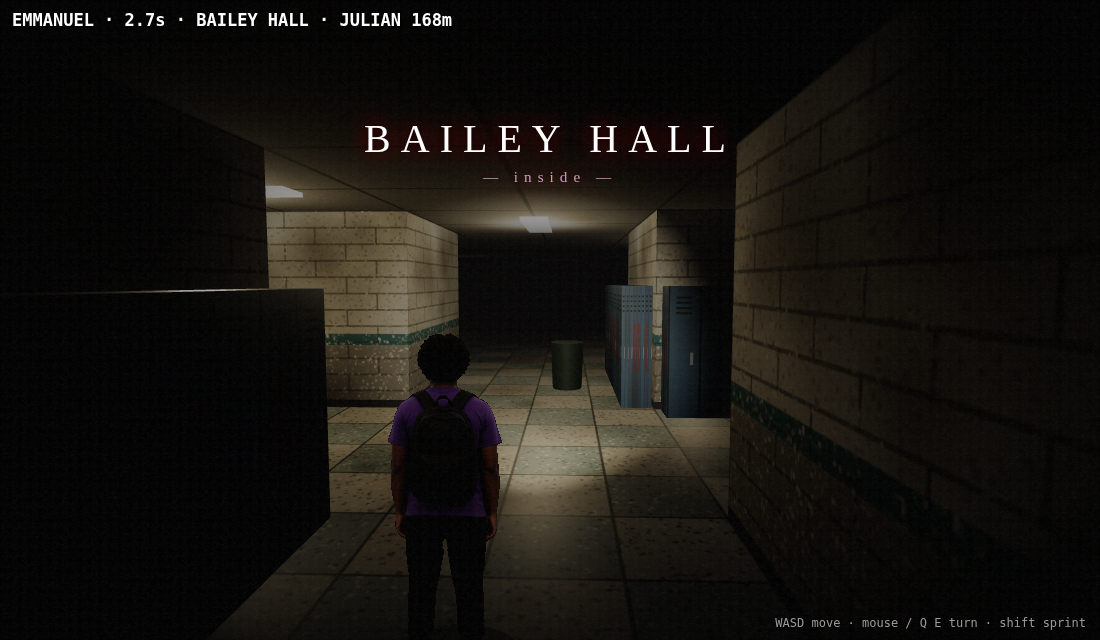
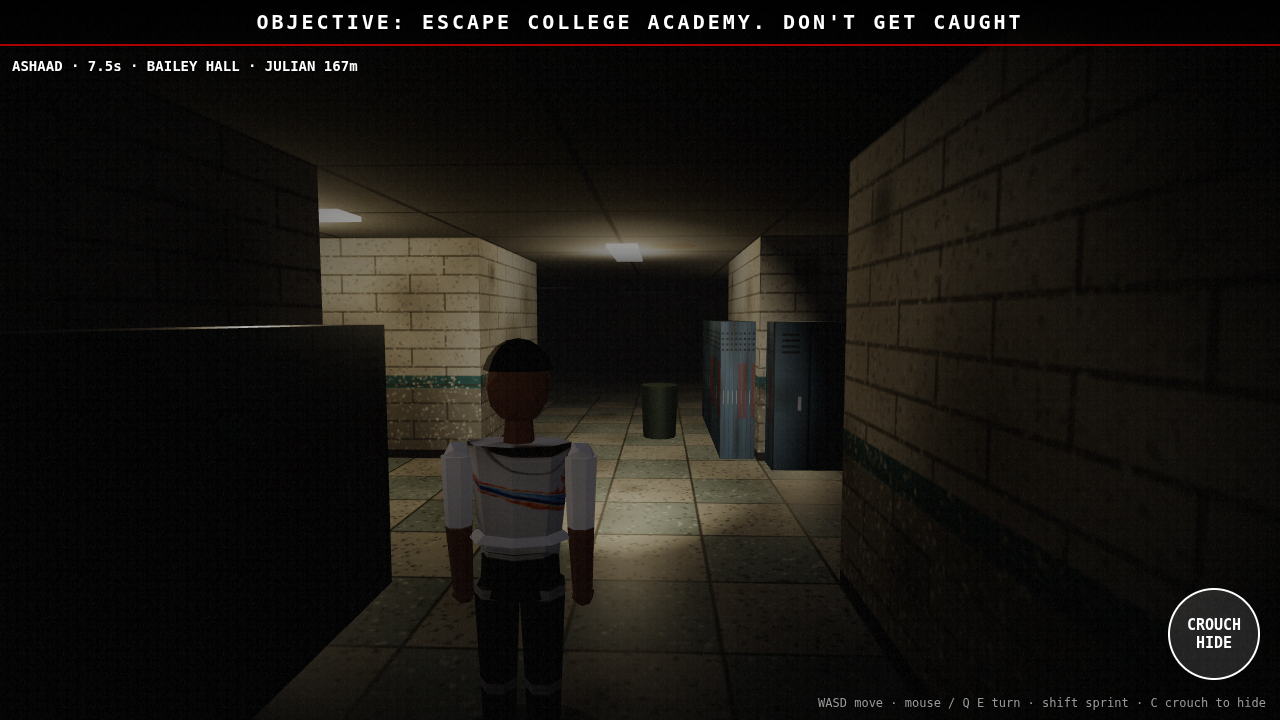
Faceted photo-textured characters, horror title, 3D car drop-off cutscene with click-to-pick, multi-beat jumpscares, cinematic GOTCHA

diff --git a/js/game.js b/js/game.js
@@ -15,19 +15,12 @@ function distantScream(){tone('sine',900+Math.random()*300,500,1.4,.03);tone('tr
 function startDrone(){if(!ac||drone)return;const o=ac.createOscillator(),o2=ac.createOscillator(),g=ac.createGain();o.frequency.value=41;o2.frequency.value=43.3;o.type=o2.type='sawtooth';g.gain.value=.035;const f=ac.createBiquadFilter();f.frequency.value=180;o.connect(f);o2.connect(f);f.connect(g).connect(ac.destination);o.start();o2.start();drone=g}
 // ---------- flow ----------
 let state='title';
-function toIntro(){audio();startDrone();state='intro';$('title').hidden=true;$('intro').hidden=false;
- const caps=['Bailey Hall. Central Campus.','11:47 PM.','they left us here.','the doors were already open.','something else stayed.'];let i=0;
- setTimeout(()=>$('van').classList.add('go'),900);tone('sawtooth',90,60,3,.06);
- const step=()=>{if(state!='intro')return;if(i>=caps.length)return toSelect();const c=$('cap');c.style.opacity=0;setTimeout(()=>{c.textContent=caps[i++];c.style.opacity=1;if(i==3||i==5)distantScream()},500);setTimeout(step,2600)};step()}
-function toSelect(){if(state=='select')return;state='select';$('intro').hidden=true;$('sel').hidden=false}
-addEventListener('mousemove',e=>$('cone').style.setProperty('--x',e.clientX/innerWidth*100+'%'));
-$('title').onclick=toIntro;$('intro').onclick=toSelect;
 const cards=document.querySelector('#sel .cards'),goB=document.querySelector('#sel .go');
 for(const k in CAST){const d=document.createElement('div');d.className='card';d.innerHTML=`<img src="${CAST[k].img}"><b>${CAST[k].n}</b><small>${CAST[k].fx}</small>`;
  d.onclick=()=>{who=k;cards.querySelectorAll('.card').forEach(c=>c.classList.toggle('on',c==d));goB.disabled=false;thump(80,.4)};cards.append(d)}
 goB.onclick=()=>who&&begin();
 addEventListener('keydown',e=>{const k=e.key.toLowerCase();keys[k]=1;
- if(k==' '){if(state=='title')toIntro();else if(state=='intro')toSelect();else if(state=='select'&&who)begin()}
+ if(k==' '){if(state=='title')toIntro();else if(state=='intro')CUT.t0=Math.min(CUT.t0,performance.now()-9300)}if(state=='pick'&&'123'.includes(k)&&k)pickRig(CUT.rigs[+k-1]);
  if(k=='r'&&state=='over')begin();if(k=='c'&&state=='play')P.crouch^=1;if((k==' '||k=='f')&&state=='qte')mash()});
 addEventListener('keyup',e=>keys[e.key.toLowerCase()]=0);
 // =====================================================================
@@ -273,18 +266,33 @@ const LOOKS={ashaad:{skin:'#7a5440',hair:'#1a120c',shirt:0xd2d1d6,pants:0x0e141d
  julian:{skin:'#b8a89c',hair:'#0c0808',shirt:0x18131a,pants:0x1e1918,shoe:0x080606,kind:'julian',h:1.22},
  verity:{skin:'#3f2d10',hair:'#2a1a06',shirt:0x463a1a,pants:0x2a2010,shoe:0x040301,kind:'verity',h:1.12}};
 const BX=(w,h,d,y=0)=>new THREE.BoxGeometry(w,h,d).translate(0,y,0);
-function rig(key,glow=0){const L=LOOKS[key],std=c=>new THREE.MeshStandardMaterial({color:c,roughness:.8,emissive:c,emissiveIntensity:glow});
- const skinM=std(new THREE.Color(L.skin).getHex()),shirtM=std(L.shirt),pantsM=std(L.pants),shoeM=std(L.shoe);
+const PHOTO={ashaad:['assets/ashaad-fullbody.jpg',[356,32,452,144],[280,192,540,520],[288,520,520,940]],
+ emmanuel:['assets/emmanuel-survivor.jpg',[328,48,424,168],[216,200,496,560],[232,600,520,960]],
+ landry:['assets/landry-fullbody.jpg',[264,40,360,160],[200,180,460,460],[240,460,448,960]],
+ julian:['assets/julian-horror.jpg',[216,88,328,232],[160,200,420,600],[120,600,420,1000]],
+ verity:['assets/verity-landry-evil.jpg',[160,32,304,208],[80,220,320,560],[40,560,340,1000]]};
+const PIMG={};const photoTex=(key,i)=>{const [src]=PHOTO[key],b=PHOTO[key][i],c=document.createElement('canvas');c.width=c.height=256;const t=new THREE.CanvasTexture(c);t.colorSpace=THREE.SRGBColorSpace;
+ const draw=im=>{const g=c.getContext('2d');g.drawImage(im,b[0],b[1],b[2]-b[0],b[3]-b[1],0,0,256,256);if(i==1){const r=g.createRadialGradient(128,128,90,128,128,140);r.addColorStop(0,'rgba(0,0,0,0)');r.addColorStop(1,'rgba(0,0,0,0)');}t.needsUpdate=true};
+ let im=PIMG[src];if(!im){im=PIMG[src]=new Image();im.src=src}if(im.complete&&im.naturalWidth)draw(im);else im.addEventListener('load',()=>draw(im));return t};
+const TAPER=(rt,rb,len,y,seg=7)=>new THREE.CylinderGeometry(rt,rb,len,seg,2).translate(0,y,0);
+function rig(key,glow=0){const L=LOOKS[key],std=(c,map)=>new THREE.MeshStandardMaterial({color:map?0xffffff:c,map:map||null,roughness:.8,flatShading:true,emissive:c,emissiveIntensity:glow*(map?.4:1),emissiveMap:map||null});
+ const skinM=std(new THREE.Color(L.skin).getHex()),shirtM=std(L.shirt,photoTex(key,2)),pantsM=std(L.pants,photoTex(key,3)),shoeM=std(L.shoe),sleeveM=std(L.shirt),hairM=std(new THREE.Color(L.hair).getHex());
  const root=new THREE.Group(),hips=new THREE.Group(),torso=new THREE.Group();root.add(hips);hips.position.y=.95;hips.add(torso);
- const add=(p,geo,m,x=0,y=0,z=0)=>{const o=new THREE.Mesh(geo,m);o.position.set(x,y,z);o.castShadow=false;p.add(o);return o};
- add(hips,BX(.36,.22,.22,0),pantsM);add(torso,BX(.42,.5,.24,.3),shirtM);add(torso,BX(.2,.1,.16,.6),skinM);
- const neck=new THREE.Group();neck.position.y=.62;torso.add(neck);
- const headM=[skinM,skinM,new THREE.MeshStandardMaterial({color:L.hair,roughness:.9}),skinM,new THREE.MeshStandardMaterial({map:faceTex(L.kind,L.skin,L.hair),roughness:.7,emissive:L.kind=='verity'?0xffd000:0,emissiveIntensity:L.kind=='verity'?.35:0}),skinM];
- if(L.kind!='verity')headM[1]=headM[0]=headM[3]=headM[5];
- const head=add(neck,BX(.28,.32,.28,.17),headM);if(!L.kind)add(neck,BX(.3,.09,.3,.36),headM[2]);if(L.kind=='verity'){add(neck,BX(.34,.26,.12,.12),shirtM,0,0,-.12)}
- const limb=(p,x,y,len,m1,m2,w=.12,end)=>{const a=new THREE.Group();a.position.set(x,y,0);p.add(a);add(a,BX(w,len/2,w,-len/4),m1);const b=new THREE.Group();b.position.y=-len/2;a.add(b);add(b,BX(w*.9,len/2,w*.9,-len/4),m2);if(end)add(b,end,shoeM,0,-len/2,.05);return[a,b]};
- const al=limb(torso,-.27,.52,.62,shirtM,skinM,.11),ar=limb(torso,.27,.52,.62,shirtM,skinM,.11);
- const ll=limb(hips,-.11,-.06,.86,pantsM,pantsM,.15,BX(.15,.08,.26)),lr=limb(hips,.11,-.06,.86,pantsM,pantsM,.15,BX(.15,.08,.26));
+ const add=(p,geo,m,x=0,y=0,z=0)=>{const o=new THREE.Mesh(geo,m);o.position.set(x,y,z);p.add(o);return o};
+ add(hips,TAPER(.17,.18,.2,0,8),pantsM).scale.z=.7;
+ const ch=add(torso,TAPER(.23,.17,.52,.3,8),shirtM);ch.scale.z=.62;add(torso,new THREE.SphereGeometry(.23,8,3,0,Math.PI*2,0,Math.PI/2).translate(0,.555,0),sleeveM).scale.set(1,.25,.62);
+ add(torso,TAPER(.06,.07,.12,.62,6),skinM);
+ const neck=new THREE.Group();neck.position.y=.66;torso.add(neck);
+ const hd=add(neck,new THREE.IcosahedronGeometry(.155,1),skinM,0,.15,0);hd.scale.set(.92,1.12,1);
+ const faceM=new THREE.MeshStandardMaterial({map:photoTex(key,1),roughness:.7,flatShading:true,emissive:0xffffff,emissiveMap:photoTex(key,1),emissiveIntensity:L.kind?.35:.18});
+ add(neck,new THREE.SphereGeometry(.152,10,7,0,Math.PI,Math.PI*.12,Math.PI*.72),faceM,0,.15,.012).scale.set(.95,1.15,1.04);
+ if(L.kind!='verity')add(neck,new THREE.SphereGeometry(.165,8,4,0,Math.PI*2,0,Math.PI*.42),hairM,0,.17,-.01).scale.set(.95,1.1,1.02);
+ const limb=(p,x,y,len,m1,m2,w=.12,end)=>{const a=new THREE.Group();a.position.set(x,y,0);p.add(a);add(a,TAPER(w*.62,w*.5,len/2,-len/4),m1);add(a,new THREE.IcosahedronGeometry(w*.55,0),m1);const b=new THREE.Group();b.position.y=-len/2;a.add(b);add(b,TAPER(w*.5,w*.38,len/2,-len/4),m2);if(end)add(b,end,shoeM,0,-len/2,.05);return[a,b]};
+ const hand=new THREE.IcosahedronGeometry(.055,0).translate(0,-.33,0);
+ const al=limb(torso,-.27,.5,.62,sleeveM,skinM,.12),ar=limb(torso,.27,.5,.62,sleeveM,skinM,.12);add(al[1],hand,skinM);add(ar[1],hand,skinM);
+ const shoe=new THREE.BoxGeometry(.13,.08,.27,1,1,2);
+ const ll=limb(hips,-.1,-.06,.86,pantsM,pantsM,.17,shoe),lr=limb(hips,.1,-.06,.86,pantsM,pantsM,.17,shoe);
+ root.traverse(o=>{if(o.isMesh)o.castShadow=false});
  root.scale.setScalar(L.h||1);root.userData={hips,torso,neck,al,ar,ll,lr,crouch:0,key,mats:[skinM,shirtM,pantsM,shoeM]};
  const sh=new THREE.Mesh(new THREE.CircleGeometry(.45,20).rotateX(-Math.PI/2),new THREE.MeshBasicMaterial({color:0,transparent:true,opacity:.55,depthWrite:false}));sh.position.y=.03;scene.add(sh);root.userData.shadow=sh;scene.add(root);return root}
 // style: 'run' | 'back' | 'idle' | 'strafe' | 'julian' | 'verity' | 'grab'
@@ -334,11 +342,12 @@ if(COARSE){$('touch').style.display='grid';$('touch').querySelectorAll('button')
  let lx=null;renderer.domElement.addEventListener('touchmove',e=>{const x=e.touches[0].clientX;if(lx!=null)P.yaw-=(x-lx)*.006;lx=x},{passive:true});renderer.domElement.addEventListener('touchend',()=>lx=null)}
 const cb=$('crouchB');cb.onclick=()=>{if(state=='play')P.crouch^=1};cb.ontouchstart=e=>{e.preventDefault();cb.onclick()};const qb=$('qkeyB');qb.onclick=e=>{e.stopPropagation();mash()};qb.ontouchstart=e=>{e.preventDefault();mash()};
 const SCARE={};[['j','assets/anims/julian-jumpscare.png','assets/julian-horror.jpg'],['v','assets/anims/verity-jumpscare.png','assets/verity-landry-evil.jpg']].forEach(([k,a,b])=>{SCARE[k]={u:b,sheet:false};const i=new Image();i.onload=()=>SCARE[k]={u:a,sheet:true};i.src=a});
-function jumpscare(k,now){const sc=SCARE[k],img=sc.u;$('js').classList.toggle('sheet',sc.sheet);lastScare=now/1000;frozenUntil=now+(RM?400:800);const j=$('js');j.style.backgroundImage=`url(${img})`;j.classList.remove('on');void j.offsetWidth;j.classList.add('on');
- scream(false);if(!RM)document.body.classList.add('shake');setTimeout(()=>{j.classList.remove('on');document.body.classList.remove('shake')},RM?400:780)}
+function jumpscare(k,now){const sc=SCARE[k],img=sc.u,D=RM?600:2400;$('js').classList.toggle('sheet',sc.sheet);lastScare=now/1000;frozenUntil=now+D;const j=$('js'),v=$('jsv');j.style.backgroundImage=`url(${img})`;[j,v].forEach(e=>{e.classList.remove('on');void e.offsetWidth;e.classList.add('on')});
+ tone('sine',60,30,.4,.25);noise(.12,.15);setTimeout(()=>{scream(true);thump(50,.6);if(!RM)document.body.classList.add('shake')},300);setTimeout(()=>{tone('square',2200,1800,.5,.06);noise(.5,.3)},1100);setTimeout(()=>{thump(40,.7);tone('sawtooth',110,40,1,.15)},1550);
+ setTimeout(()=>{[j,v].forEach(e=>e.classList.remove('on'));document.body.classList.remove('shake')},D)}
 function showZone(z,sub){const e=$('zone');e.innerHTML=`${z}<small>${sub}</small>`;e.style.opacity=1;clearTimeout(e._t);e._t=setTimeout(()=>e.style.opacity=0,2400)}
 function gotcha(now,by){state='over';scream(true);document.exitPointerLock?.();$('hud').hidden=true;$('crouchB').hidden=true;$('obj').textContent='';$('over').hidden=false;
- $('score').textContent=`${CAST[who].n} survived ${((now-t0)/1000).toFixed(1)}s`;$('overline').textContent=by=='v'?'verity was never landry.':'julian has finded '+CAST[who].n.toLowerCase()+'.';
+ $('score').textContent=`${CAST[who].n} survived ${((now-t0)/1000).toFixed(1)}s`;$('overline').textContent=by=='v'?'\u201cverity was never landry.\u201d':'\u201cjulian has finded '+CAST[who].n.toLowerCase()+'.\u201d';
  if(!RM){$('over').classList.add('strobe');document.body.classList.add('shake')}}
 // ambience: fluorescent hum indoors, crickets outdoors, footsteps
 let hum=null,crick=null;function startAmb(){if(!ac||hum)return;const o=ac.createOscillator(),g=ac.createGain();o.type='sawtooth';o.frequency.value=120;const f=ac.createBiquadFilter();f.type='bandpass';f.frequency.value=240;f.Q.value=6;g.gain.value=0;o.connect(f).connect(g).connect(ac.destination);o.start();hum=g;
@@ -391,7 +400,7 @@ function loop(now){requestAnimationFrame(loop);const dt=Math.min(.05,(now-last)/
  }
  // ---- environment blend indoor/outdoor ----
  const inside=IN[Math.round(P.z/S)]?.[Math.round(P.x/S)]?1:0;envK+=(inside-envK)*Math.min(1,dt*1.6);
- scene.fog.color.copy(FOG_OUT).lerp(FOG_IN,envK);scene.fog.density=.022+.056*envK;hemi.intensity=.22+.55*(1-envK);hemi.color.setHex(0x5a6a99);moonL.intensity=1.1*(1-envK)+.02;renderer.toneMappingExposure=1.15+.35*(1-envK);
+ scene.fog.color.copy(FOG_OUT).lerp(FOG_IN,envK);scene.fog.density=.022+.056*envK;hemi.intensity=.26+.8*(1-envK);hemi.color.setHex(0x5a6a99);moonL.intensity=1.5*(1-envK)+.02;renderer.toneMappingExposure=1.15+.5*(1-envK);
  if(hum)hum.gain.value=.018*envK;if(crick){crick.gain.value=.025*(1-envK);if(Math.random()<dt*1.5*(1-envK))chirp()}
  // ---- over-the-shoulder camera ----
  let dy=P.yaw-camYaw;dy=Math.atan2(Math.sin(dy),Math.cos(dy));camYaw+=dy*Math.min(1,dt*14);
@@ -412,8 +421,51 @@ function loop(now){requestAnimationFrame(loop);const dt=Math.min(.05,(now-last)/
  if(V.on){ver.position.set(V.x,0,V.z);animActor(ver,V,dt,V.moved||0,'verity',tt)}
  renderer.render(scene,cam)}
 requestAnimationFrame(loop);
+// ---------- 3D intro cutscene: car drop-off at Bailey Hall, click a survivor ----------
+const CUT={on:false,t:0,rigs:[],car:null,hover:null,picked:null,lights:[]};
+const cutLamp=new THREE.PointLight(0xffb060,0,26,1.6);cutLamp.position.set(6*S,6,13.6*S);const cutFill=new THREE.PointLight(0x8090ff,0,40,1.2);cutFill.position.set(6*S,4,17*S);const cutRed=new THREE.PointLight(0xff1020,0,14,2);scene.add(cutLamp,cutFill,cutRed);
+function makeCar(){const g=new THREE.Group(),bm=new THREE.MeshStandardMaterial({color:0x15171c,roughness:.3,metalness:.7,flatShading:true}),gl=new THREE.MeshStandardMaterial({color:0x0a0d12,roughness:.1,metalness:.9});
+ const b=new THREE.Mesh(new THREE.BoxGeometry(4.4,.8,1.9),bm);b.position.y=.7;g.add(b);const c=new THREE.Mesh(new THREE.CylinderGeometry(.9,1.25,.7,4,1).rotateY(Math.PI/4).scale(1.6,1,1.05),gl);c.position.set(-.2,1.45,0);g.add(c);
+ const wg=new THREE.CylinderGeometry(.36,.36,.25,10).rotateX(Math.PI/2),wm=new THREE.MeshStandardMaterial({color:0x050505,flatShading:true});for(const[x,z]of[[1.4,.9],[-1.4,.9],[1.4,-.9],[-1.4,-.9]]){const w=new THREE.Mesh(wg,wm);w.position.set(x,.36,z);g.add(w)}
+ const hl=new THREE.MeshBasicMaterial({color:0xfff2cc}),tl=new THREE.MeshBasicMaterial({color:0xff1010});for(const z of[.65,-.65]){const h=new THREE.Mesh(new THREE.BoxGeometry(.05,.16,.32),hl);h.position.set(2.21,.85,z);g.add(h);const t=new THREE.Mesh(new THREE.BoxGeometry(.05,.14,.3),tl);t.position.set(-2.21,.85,z);g.add(t)}
+ const beam=new THREE.SpotLight(0xfff0d0,80,40,.5,.6,1.4);beam.position.set(2.3,.9,0);beam.target.position.set(12,0,0);g.add(beam,beam.target);const rl=new THREE.PointLight(0xff0000,4,6,2);rl.position.set(-2.6,.9,0);g.add(rl);scene.add(g);return g}
+const label=document.createElement('div');label.id='plabel';document.body.append(label);
+const caps=$('cap');
+function cap(s){caps.style.opacity=0;setTimeout(()=>{caps.textContent=s;caps.style.opacity=s?1:0},300)}
+function toIntro(){if(state!='title')return;audio();startDrone();state='intro';$('title').hidden=true;$('intro').hidden=false;document.body.classList.add('cine');
+ CUT.on=true;CUT.t=0;CUT.t0=performance.now();CUT.picked=null;CUT.car=CUT.car||makeCar();CUT.car.visible=true;CUT.rigs.forEach(r=>{scene.remove(r,r.userData.shadow)});
+ CUT.rigs=['ashaad','emmanuel','landry'].map((k,i)=>{const r=rig(k,.05);r.visible=r.userData.shadow.visible=false;r.userData.slot=(i-1)*1.5;return r});
+ tone('sawtooth',90,60,3,.06);cap('BAILEY HALL  ·  11:47 PM');
+ let last=performance.now();(function tick(now){if(!CUT.on)return;requestAnimationFrame(tick);const dt=Math.min(.25,(now-last)/1000);last=now;cutStep(dt,now/1000)})(last)}
+function cutStep(dt,tt){CUT.t=(performance.now()-CUT.t0)/1000;const t=CUT.t,car=CUT.car,X=6*S,Z=12.95*S;cutLamp.intensity=26*(Math.random()<.03?.3:1);cutFill.intensity=8;
+ // car: drive in, stop, idle, drive off
+ const CX=X+7,cx=t<3.2?CX-46+46*(1-Math.pow(1-t/3.2,3)):t<7?CX:CX+(t-7)**2*6;car.position.set(cx,0,14.2*S);car.visible=t<11;
+ if(t>1&&t<1.1)tone('sine',50,40,2.5,.08);if(t>7&&t<7.05){tone('sawtooth',70,140,1.4,.05);cap('they left us here.')}
+ // exit + walk to marks
+ CUT.rigs.forEach((r,i)=>{const go=3.6+i*.55;r.visible=r.userData.shadow.visible=t>go;if(!r.visible)return;const k=Math.min(1,(t-go)/1.6),sx=CX-1.2+i*.9,sz=14.2*S-1.2,tx=X+r.userData.slot,tz=Z+.6;
+  r.position.set(sx+(tx-sx)*k,0,sz+(tz-sz)*k);r.userData.shadow.position.set(r.position.x,.03,r.position.z);
+  r.rotation.y=k<1?Math.atan2(tx-sx,tz-sz):(CUT.picked==r?0:Math.sin(tt*.6+i)*.15);pose(r,tt*7,k<1?1:0,k<1?'run':'idle',0,dt,tt);
+  const hv=CUT.hover==r||CUT.picked==r;r.userData.mats.forEach(m=>m.emissiveIntensity+=((hv?.35:.05)-m.emissiveIntensity)*.15)});
+ if(t>9.4&&state=='intro'){state='pick';cap('');$('pickhint').hidden=false}
+ // camera: low tracking shot then settle on the three
+ let cp,lk;if(CUT.picked){const p=CUT.picked.position,k=Math.min(1,(t-CUT.pt)/1.4);cp=new THREE.Vector3(X,2.2-.6*k,Z+7-5.4*k);cp.x+=(p.x-X)*k;lk=new THREE.Vector3(p.x,1.5,p.z);cutRed.position.set(p.x,2.5,p.z+1.5);cutRed.intensity=k*14}
+ else if(t<3.4){cp=new THREE.Vector3(cx-6,1.1,14.2*S+4.5);lk=new THREE.Vector3(cx+3,.8,14.2*S)}else if(t<7){const k=(t-3.4)/3.6;cp=new THREE.Vector3(X-2+2*k,1.6+k*.5,Z+4.2+k*1.2);lk=new THREE.Vector3(X+3.5-3.5*k,1.2,Z+2)}else{const k=Math.min(1,(t-7)/2.2);cp=new THREE.Vector3(X+Math.sin(tt*.3)*.4,1.9+.2*k,Z+5.4-1*k);lk=new THREE.Vector3(X,1.25,Z+.4)}
+ cam.position.lerp(cp,CUT.picked?1:Math.min(1,dt*3.5));cam.lookAt(lk);
+ if(CUT.hover&&!CUT.picked){const v=CUT.hover.position.clone();v.y=2.25;v.project(cam);label.style.left=(v.x+1)/2*innerWidth+'px';label.style.top=(1-v.y)/2*innerHeight+'px';label.style.opacity=1;label.innerHTML=`${CAST[CUT.hover.userData.key].n}<small>${CAST[CUT.hover.userData.key].fx}</small>`}else label.style.opacity=0;
+ if(CUT.picked&&t-CUT.pt>1.9)endCut()}
+function endCut(){CUT.on=false;CUT.car.visible=false;CUT.rigs.forEach(r=>{scene.remove(r,r.userData.shadow)});CUT.rigs=[];cutLamp.intensity=cutFill.intensity=cutRed.intensity=0;label.style.opacity=0;$('pickhint').hidden=true;document.body.classList.remove('cine');begin()}
+function pickRig(r){if(state!='pick'||!r)return;CUT.picked=r;CUT.pt=CUT.t;who=r.userData.key;thump(70,.5);tone('sawtooth',300,60,1.2,.12);cap(CAST[who].n);label.style.opacity=0}
+const ray=new THREE.Raycaster(),mv=new THREE.Vector2();
+function rigAt(e){mv.set(e.clientX/innerWidth*2-1,-(e.clientY/innerHeight)*2+1);ray.setFromCamera(mv,cam);let best=null,bd=1e9;for(const r of CUT.rigs){const h=ray.intersectObject(r,true)[0];if(h&&h.distance<bd){bd=h.distance;best=r}}
+ if(!best)for(const r of CUT.rigs){const v=r.position.clone();v.y=1;v.project(cam);const d=Math.hypot((v.x-mv.x)*innerWidth,(v.y-mv.y)*innerHeight);if(d<90&&d<bd){bd=d;best=r}}return best}
+addEventListener('pointermove',e=>{if(state=='pick'&&!CUT.picked){CUT.hover=rigAt(e);document.body.style.cursor=CUT.hover?'pointer':''}});
+$('intro').onclick=e=>{if(state=='intro'){CUT.t0=Math.min(CUT.t0,performance.now()-9300)}else if(state=='pick')pickRig(rigAt(e))};
+$('title').onclick=toIntro;
+function toSelect(){}
+
 // idle backdrop for menus: slow orbit over Bailey Hall front
-(function menuCam(){if(state=='play'||state=='over')return;const t=performance.now()/9000;cam.position.set(7*S+Math.sin(t)*14,4,15*S+Math.cos(t)*4);cam.lookAt(7*S,3,11*S);P.x=7*S;P.z=14*S;requestAnimationFrame(menuCam)})();
+(function menuCam(){if(state=='play'||state=='over')return;if(CUT.on){requestAnimationFrame(menuCam);return}cutLamp.intensity=30;cutFill.intensity=10;hemi.intensity=.7;moonL.intensity=1.4;renderer.toneMappingExposure=1.5;const t=performance.now()/9000;cam.position.set(7*S+Math.sin(t)*14,4,15*S+Math.cos(t)*4);cam.lookAt(7*S,3,11*S);P.x=7*S;P.z=14*S;requestAnimationFrame(menuCam)})();
 addEventListener('resize',()=>{cam.aspect=innerWidth/innerHeight;cam.updateProjectionMatrix();renderer.setSize(innerWidth,innerHeight)});
+
 // debug hook for automated screenshots
-window.__boa={mash,qteS:()=>qte,startQTE,R:{jul,ver},P,J,V,G,cam,camPos,walk,DFc:()=>DF,W,H,begin:k=>{who=k||'ashaad';begin()},keys};
+window.__boa={mash,qteS:()=>qte,startQTE,R:{jul,ver},P,J,V,G,cam,camPos,walk,DFc:()=>DF,W,H,begin:k=>{who=k||'ashaad';begin()},CUT,toIntro,pickRig,jumpscare:k=>jumpscare(k,performance.now()),gotcha:b=>gotcha(performance.now(),b),keys};

diff --git a/index.html b/index.html
@@ -43,7 +43,7 @@ button.go{font:bold 18px monospace;letter-spacing:4px;padding:12px 30px;backgrou
 #js.sheet{inset:0 auto 0 calc(50% - 33vh);width:66vh;box-shadow:0 0 0 100vw #000;background-size:500% 100%;background-position:0 0}#js.sheet.on{animation:jz .75s steps(10) forwards,jf .75s step-end forwards}
 @keyframes jf{0%{background-position:0 0}18%{background-position:25% 0}36%{background-position:50% 0}54%{background-position:75% 0}70%,100%{background-position:100% 0}}
 @keyframes jz{0%{transform:scale(.6);filter:brightness(3) contrast(2) saturate(0)}10%{transform:scale(1.25) translate(12px,-8px);filter:brightness(1.4) contrast(1.8) hue-rotate(-20deg)}20%{transform:scale(1.15) translate(-14px,10px);filter:invert(1)}30%{transform:scale(1.3) translate(8px,6px);filter:contrast(2) saturate(3)}50%{transform:scale(1.4) translate(-6px,-12px)}70%{transform:scale(1.5);filter:brightness(.6) sepia(1) hue-rotate(-50deg) saturate(5)}100%{transform:scale(1.7);filter:brightness(0)}}
-#over{background:#000}#over h1{color:#f11;font-size:clamp(56px,14vw,170px);letter-spacing:12px}
+
 #over.strobe{animation:st .12s 18}@keyframes st{50%{background:#900}}
 #touch{position:fixed;bottom:20px;left:20px;z-index:9;display:none;grid-template-columns:repeat(3,60px);gap:6px}
 #touch button{height:60px;font-size:22px;background:rgba(255,255,255,.15);color:#fff;border:2px solid #fff;border-radius:8px}
@@ -57,12 +57,34 @@ button.go{font:bold 18px monospace;letter-spacing:4px;padding:12px 30px;backgrou
 #qte h2{font:bold clamp(28px,6vw,64px) Georgia;color:#f22;letter-spacing:6px;margin:0;text-shadow:0 0 18px #000}
 #qkeyB{margin:22px;font:bold 34px monospace;padding:22px 40px;background:#fff;color:#000;border:4px solid #f22;border-radius:12px;cursor:pointer;animation:qk .15s infinite alternate}@keyframes qk{to{transform:scale(1.1)}}
 .qbar{width:min(420px,80vw);height:16px;border:2px solid #fff;margin:6px}.qbar i{display:block;height:100%;background:#fff;width:0}#qtime{background:#f22!important}
+
+#title{background:transparent;cursor:pointer}#title .tbg{position:absolute;inset:0;background:radial-gradient(ellipse at 50% 60%,rgba(40,0,10,.15),rgba(0,0,0,.85) 75%),linear-gradient(transparent 55%,#000)}
+#title .fog{position:absolute;inset:-20%;background:radial-gradient(ellipse at 30% 80%,rgba(120,120,160,.12),transparent 50%),radial-gradient(ellipse at 70% 85%,rgba(150,60,80,.1),transparent 45%);animation:fogm 18s ease-in-out infinite alternate}@keyframes fogm{to{transform:translateX(8%)}}
+#title>*:not(.tbg):not(.fog){position:relative}#title .pre{font:bold clamp(12px,1.6vw,16px) monospace;letter-spacing:14px;color:#c22;margin-bottom:8px}
+#title h1.tt{font-family:'Impact','Haettenschweiler',Georgia,sans-serif;font-size:clamp(44px,10vw,128px);line-height:.88;letter-spacing:4px;color:#e8e2dc;text-shadow:0 0 30px #900,0 6px 0 #300,0 0 2px #f00;transform:skewX(-4deg)}
+#title .rule{width:min(420px,60vw);height:2px;margin:22px auto 18px;background:linear-gradient(90deg,transparent,#c00,transparent)}.blink{animation:bl 1.6s infinite;letter-spacing:8px}@keyframes bl{50%{opacity:.25}}
+#intro{background:transparent}#intro .bar{position:absolute;left:0;right:0;height:11vh;background:#000}#intro .bar.t{top:0}#intro .bar.b{bottom:0}#intro .skip{position:absolute;top:12vh;right:14px}
+#cap{position:absolute;bottom:13vh;width:100%;font:clamp(16px,2.6vw,28px) Georgia;letter-spacing:6px;text-shadow:0 0 8px #000;opacity:0;transition:opacity .6s}
+#pickhint{position:absolute;bottom:2.5vh;width:100%;font:bold clamp(16px,2.6vw,26px) monospace;letter-spacing:10px;color:#e33;text-shadow:0 0 12px #600}#pickhint small{display:block;font-size:.5em;color:#aaa;letter-spacing:4px;margin-top:4px}
+#plabel{position:fixed;z-index:12;transform:translate(-50%,-100%);font:bold 22px Georgia;letter-spacing:5px;color:#fff;text-shadow:0 0 10px #c00;pointer-events:none;opacity:0;transition:opacity .2s;text-align:center}#plabel small{display:block;font:12px monospace;color:#ccc;letter-spacing:1px}
+#js.on{animation:jz 2.4s linear forwards}#js.sheet.on{animation:jz 2.4s linear forwards,jf 2.4s step-end forwards}
+@keyframes jf{0%{background-position:0 0}12%{background-position:25% 0}30%{background-position:50% 0}50%{background-position:75% 0}70%,100%{background-position:100% 0}}
+@keyframes jz{0%{transform:scale(.2);opacity:0;filter:brightness(0)}6%{opacity:1;filter:brightness(.3) contrast(2)}9%{opacity:0}13%{opacity:1;transform:scale(.55);filter:brightness(.8) contrast(1.6) saturate(0)}18%{transform:scale(1.35) translate(14px,-10px);filter:brightness(1.6) contrast(2) hue-rotate(-20deg)}22%{transform:scale(1.2) translate(-16px,12px);filter:invert(1)}25%{transform:scale(1.4) translate(10px,6px);filter:contrast(2.2) saturate(2.5)}35%{transform:scale(1.45) translate(-5px,-6px);filter:contrast(1.8) saturate(1.6)}45%{transform:scale(1.5) translate(6px,4px)}52%{transform:scale(1.48) translate(-7px,3px);filter:brightness(1.3) contrast(2)}60%{transform:scale(1.6);filter:sepia(1) hue-rotate(-50deg) saturate(6) contrast(1.6)}66%{filter:invert(1) brightness(1.5)}70%{transform:scale(1.75);filter:brightness(.9) sepia(1) hue-rotate(-50deg) saturate(5)}85%{transform:scale(1.9);filter:brightness(.4) sepia(1) hue-rotate(-50deg) saturate(5)}100%{transform:scale(2);opacity:0;filter:brightness(0)}}
+#jsv{position:fixed;inset:0;z-index:21;pointer-events:none;opacity:0;background:radial-gradient(ellipse at center,transparent 25%,rgba(90,0,0,.7) 65%,#000 95%)}#jsv.on{animation:jv 2.4s forwards}@keyframes jv{0%,12%{opacity:0}16%{opacity:1}30%{opacity:.6}40%{opacity:1}55%{opacity:.7}100%{opacity:1}}
+#over{background:#000;cursor:pointer;overflow:hidden}#over .ovbg{position:absolute;inset:0;background:radial-gradient(ellipse at 50% 45%,#5a0008 0%,#1a0003 45%,#000 80%);animation:ovp 3s ease-in-out infinite alternate}@keyframes ovp{to{filter:brightness(1.4)}}
+#over .slash{position:absolute;left:-10%;right:-10%;top:47%;height:16vh;background:linear-gradient(90deg,transparent,rgba(200,0,0,.35),transparent);transform:rotate(-6deg);mix-blend-mode:screen;animation:sl 1s ease-out}@keyframes sl{from{transform:rotate(-6deg) scaleX(0)}}
+#over .ovin{position:relative;animation:ovi 1.2s cubic-bezier(.2,1.6,.4,1)}@keyframes ovi{from{transform:scale(2.4);opacity:0;filter:blur(12px)}}
+#over .you{font:bold clamp(12px,1.6vw,18px) monospace;letter-spacing:16px;color:#c88}
+#over h1{font-family:Impact,Georgia,sans-serif;color:#ff1a1a;font-size:clamp(70px,17vw,210px);letter-spacing:10px;line-height:1;text-shadow:0 0 40px #a00,6px 0 0 rgba(0,200,255,.25),-6px 0 0 rgba(255,0,0,.6);transform:skewX(-6deg)}
+#overline{font:italic clamp(16px,2.4vw,24px) Georgia;color:#eee;letter-spacing:2px}#score{font:13px monospace;color:#a77;letter-spacing:4px}
+#over .retry{margin-top:26px;font:bold 18px monospace;letter-spacing:8px;padding:12px 30px;background:transparent;color:#fff;border:1px solid #f33;cursor:pointer;box-shadow:0 0 0 0 #f00;transition:.2s}#over .retry:hover{background:#900;box-shadow:0 0 30px #f00}#over .retry small{opacity:.5;margin-left:8px}
+body.cine #help,body.cine #obj{display:none}
 </style></head><body>
-<div id="vig"></div><div id="grain"></div><div id="hud" hidden></div><div id="obj"></div><div id="help">WASD move · mouse / Q E turn · shift sprint · C crouch to hide</div><button id="crouchB" hidden>CROUCH<br>HIDE</button><div id="qte" hidden><h2 id="qwho">JULIAN HAS YOU</h2><button id="qkeyB">MASH <span id="qkey">SPACE</span></button><div class="qbar"><i id="qbar"></i></div><div class="qbar"><i id="qtime"></i></div><p>mash SPACE / F or tap to break free</p></div><div id="zone"></div><div id="js"></div>
-<div id="title" class="scr"><img id="logo" src="assets/college-academy-logo.png" onerror="this.remove()"><h1 class="flick ab">BINDING OF ASHAAD 2</h1><div class="sub">ESCAPE COLLEGE ACADEMY</div><p style="margin-top:28px">Broward College · Central Campus · after hours</p><p class="dim">click / tap / space to begin · headphones recommended</p></div>
-<div id="intro" class="scr" hidden><div id="plate"></div><div id="lamp"></div><div id="bh"><div class="sign">BAILEY HALL</div><div class="col" style="left:8%"></div><div class="col" style="left:22%"></div><div class="glass"></div><div class="col" style="right:22%"></div><div class="col" style="right:8%"></div></div><div id="steps"></div><div id="van"></div><div id="crew"><i></i><i></i><i></i></div><div id="cone"></div><div id="cap"></div><p class="dim" style="position:absolute;top:10px;right:14px">click / space to skip</p></div>
+<div id="vig"></div><div id="grain"></div><div id="hud" hidden></div><div id="obj"></div><div id="help">WASD move · mouse / Q E turn · shift sprint · C crouch to hide</div><button id="crouchB" hidden>CROUCH<br>HIDE</button><div id="qte" hidden><h2 id="qwho">JULIAN HAS YOU</h2><button id="qkeyB">MASH <span id="qkey">SPACE</span></button><div class="qbar"><i id="qbar"></i></div><div class="qbar"><i id="qtime"></i></div><p>mash SPACE / F or tap to break free</p></div><div id="zone"></div><div id="js"></div><div id="jsv"></div>
+<div id="title" class="scr"><div class="tbg"></div><div class="fog"></div><img id="logo" src="assets/college-academy-logo.png" onerror="this.remove()"><div class="pre">BINDING OF ASHAAD 2</div><h1 class="flick ab tt">ESCAPE<br>COLLEGE ACADEMY</h1><div class="rule"></div><p class="dim blink">CLICK TO ENTER</p></div>
+<div id="intro" class="scr" hidden><div class="bar t"></div><div class="bar b"></div><div id="cap"></div><div id="pickhint" hidden>CHOOSE WHO RUNS<small>click a survivor · 1 2 3</small></div><p class="dim skip">click / space to skip</p></div>
 <div id="sel" class="scr" hidden style="cursor:default"><h1 style="font-size:clamp(22px,4vw,44px)">CHOOSE WHO RUNS</h1><div class="cards"></div><button class="go" disabled>RUN</button><p class="dim">Maggie keeps the shop. she isn't coming.</p></div>
-<div id="over" class="scr" hidden><h1 class="ab">GOTCHA</h1><p id="score"></p><p id="overline"></p><p class="dim">press R or click to try again</p></div>
+<div id="over" class="scr" hidden><div class="ovbg"></div><div class="slash"></div><div class="ovin"><div class="you">YOU WERE</div><h1 class="ab">GOTCHA</h1><p id="overline"></p><p id="score"></p><button class="retry">&#8635; RUN AGAIN <small>R</small></button></div></div>
 <div id="touch"><button data-k="q">⟲</button><button data-k="w">▲</button><button data-k="e">⟳</button><button data-k="a">◀</button><button data-k="s">▼</button><button data-k="d">▶</button><button data-k="c">⤓</button></div>
 <script type="importmap">{"imports":{"three":"https://unpkg.com/three@0.160.0/build/three.module.js"}}</script>
 <script type="module" src="js/game.js"></script>
